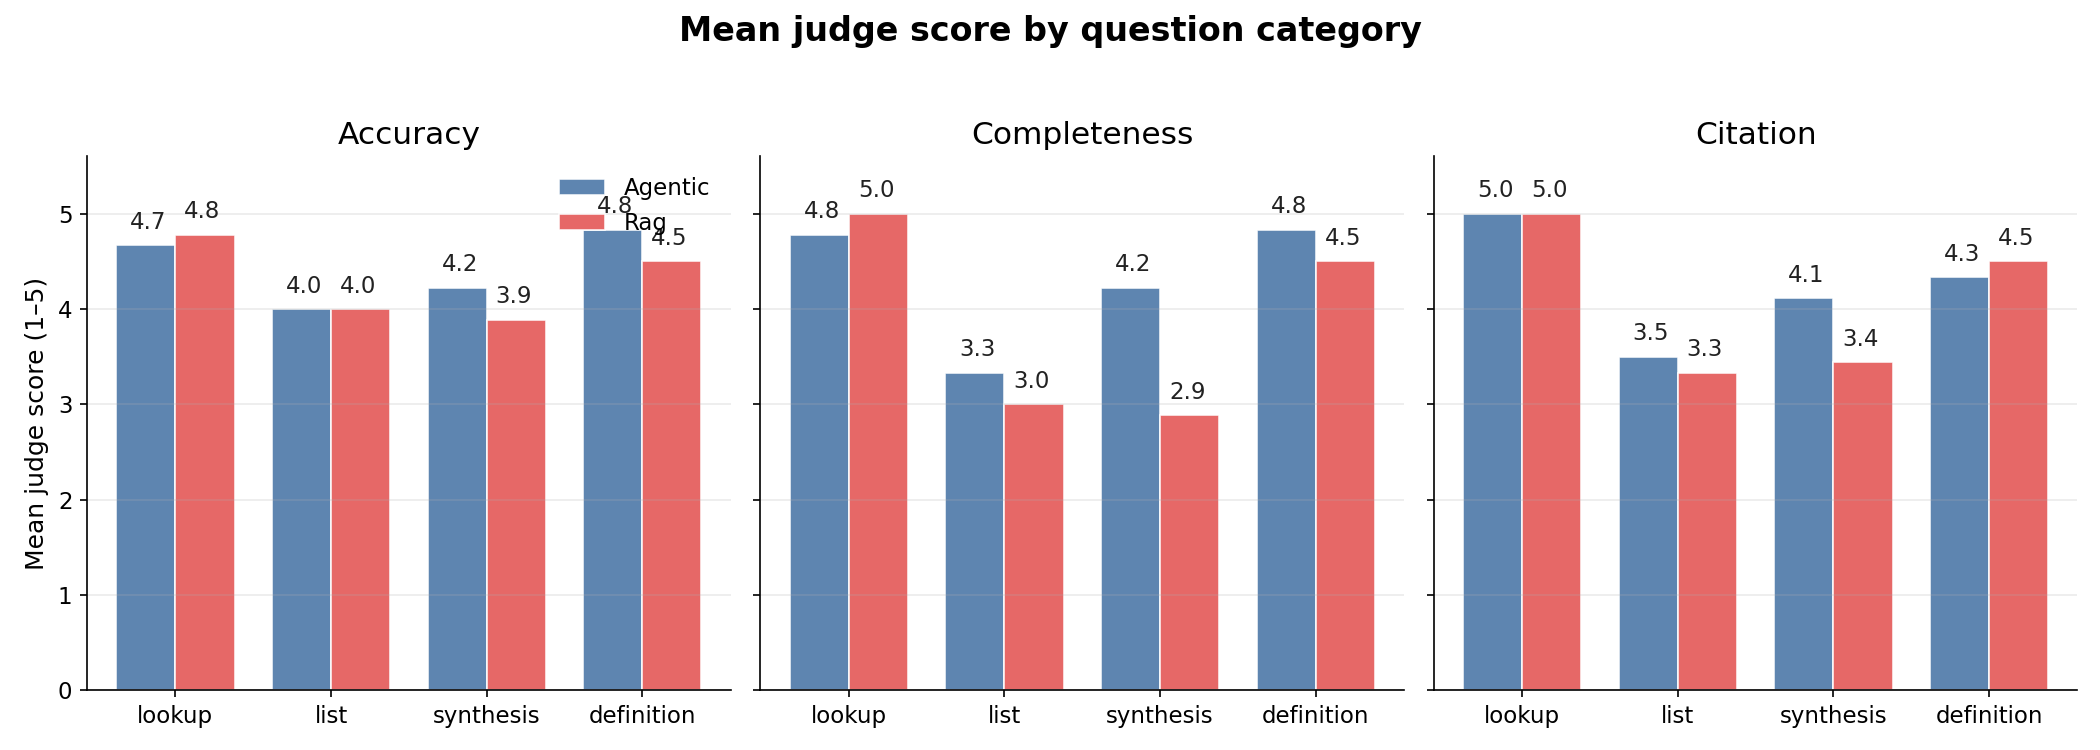
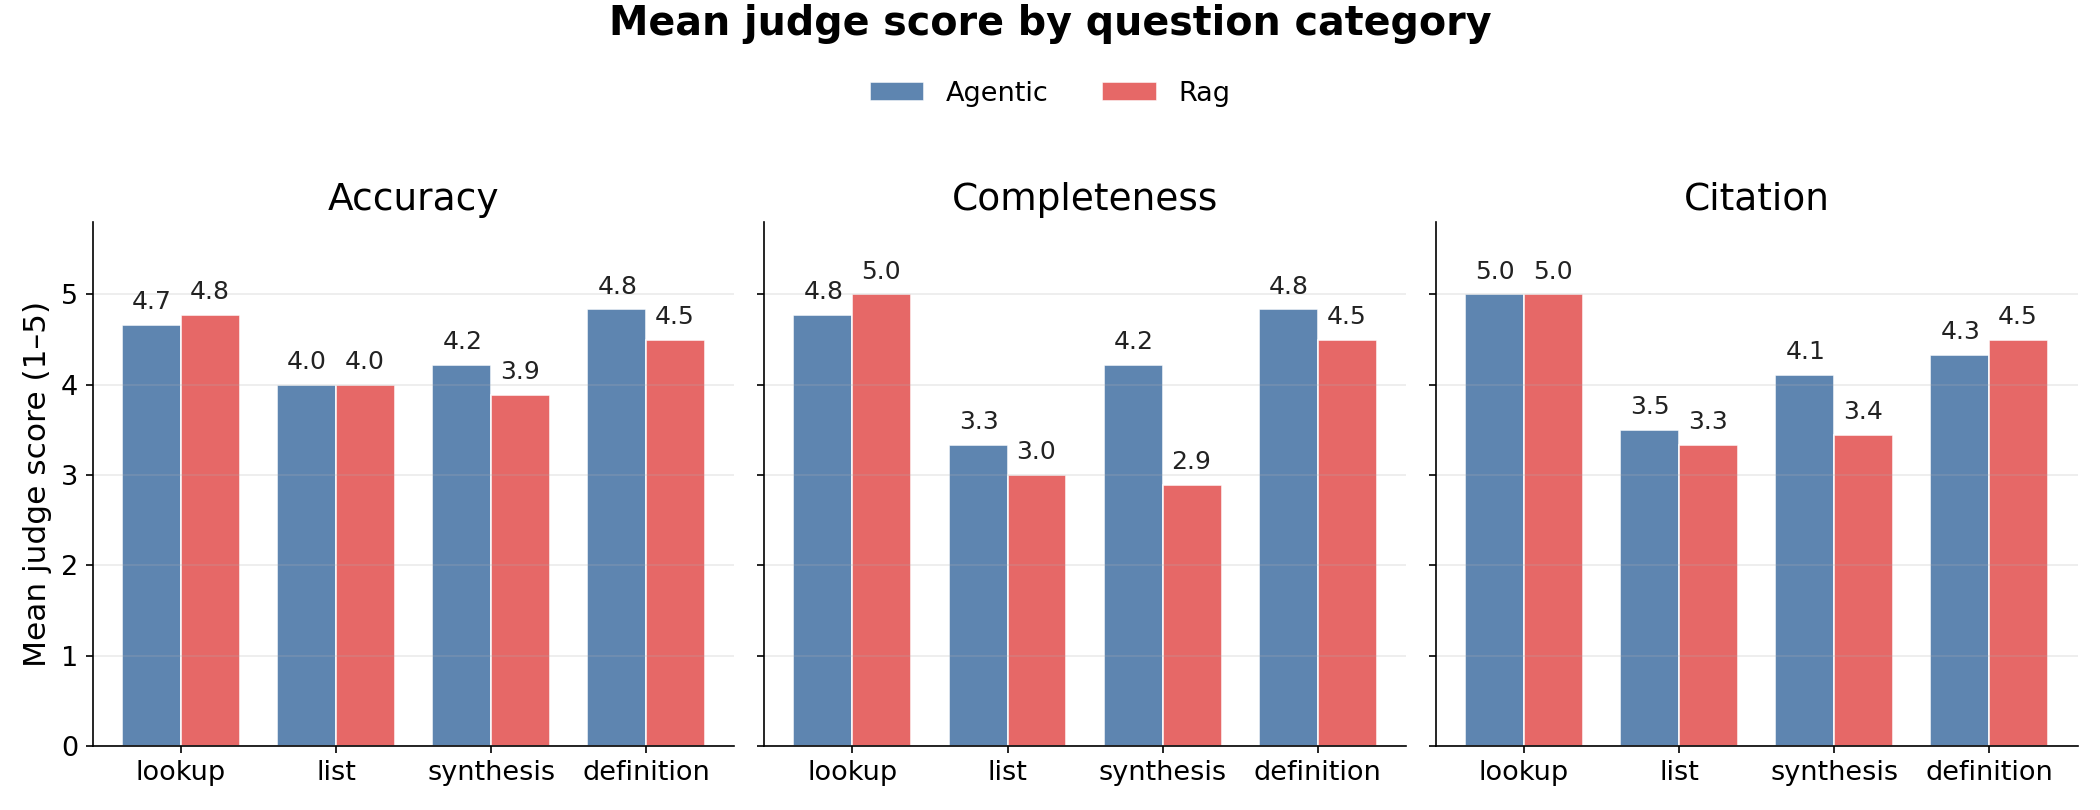
style(plots): larger fonts + move legends out of plot area
Bump the shared font hierarchy (title 18pt, labels 15pt, ticks 13pt,
legend/annotations 13pt) so the plots stay readable when the Quarto
page scales the PNGs down to ~60% of native width.

Move the Figure 1 (category bars) and Figure 3 (cost vs quality)
legends out of the axes entirely — they now sit as a figure-level
horizontal strip between the suptitle and the panels. Previously the
Figure 1 legend sat in the upper-right of the Accuracy panel and
overlapped the tallest bar's value label. Bump figure heights slightly
(5 → 5.4, 5.5 → 6) to make room for the top strip.

Also bump the scatter's figure size (10×8 → 11×8.5) and the pileup
badge's font by 1pt relative to regular labels so it stays the most
visually weighted annotation on the chart.

diff --git a/eval/build_plots.py b/eval/build_plots.py
@@ -44,14 +44,14 @@ _CATEGORY_COLORS = {
 }
 _MODE_COLORS = {"agentic": "#4C78A8", "rag": "#E45756"}
 
-# Shared styling knobs. Earlier versions of the plots used matplotlib
-# defaults (title ~10pt, ticks ~8pt) which rendered too small once the
-# page shrank the PNG to column width. Bump the hierarchy so the plots
-# read cleanly even at 1/2 page width.
-_TITLE_SIZE = 15
-_LABEL_SIZE = 12
-_TICK_SIZE = 11
-_LEGEND_SIZE = 11
+# Shared styling knobs. The plots are rendered at reduced width on the
+# Quarto page; the sizes below are chosen to stay readable even when
+# the PNG is scaled down to ~60% of its native width.
+_TITLE_SIZE = 18
+_LABEL_SIZE = 15
+_TICK_SIZE = 13
+_LEGEND_SIZE = 13
+_ANNOT_SIZE = 12
 
 
 def _apply_style(fig, *, title_size: int = _TITLE_SIZE,
@@ -135,7 +135,7 @@ def plot_per_question_scatter(records: list[dict], out: Path) -> None:
     for p in points:
         by_cell[(int(p["rg"]), int(p["ag"]))].append(p["qid"])
 
-    fig, ax = plt.subplots(figsize=(10, 8))
+    fig, ax = plt.subplots(figsize=(11, 8.5))
 
     jitter_seed = 0
     for p in points:
@@ -166,19 +166,20 @@ def plot_per_question_scatter(records: list[dict], out: Path) -> None:
         if len(qids) == 1:
             ax.annotate(qids[0], (rg, ag),
                         xytext=(dx, dy), textcoords="offset points",
-                        fontsize=9, color="#333", ha=ha, va=va)
+                        fontsize=_ANNOT_SIZE, color="#333", ha=ha, va=va)
         elif len(qids) <= 3:
             label = ", ".join(qids)
             ax.annotate(label, (rg, ag),
                         xytext=(dx, dy), textcoords="offset points",
-                        fontsize=9, color="#333", ha=ha, va=va,
+                        fontsize=_ANNOT_SIZE, color="#333", ha=ha, va=va,
                         bbox=dict(boxstyle="round,pad=0.2",
                                   fc="#fff", ec="#ddd", alpha=0.85))
         else:
             # Compact pileup badge — avoids smearing 10 IDs across the corner.
             ax.annotate(f"n={len(qids)}", (rg, ag),
                         xytext=(dx, dy), textcoords="offset points",
-                        fontsize=10, color="#222", ha=ha, va=va, weight="semibold",
+                        fontsize=_ANNOT_SIZE + 1, color="#222",
+                        ha=ha, va=va, weight="semibold",
                         bbox=dict(boxstyle="round,pad=0.25",
                                   fc="#f5f5f7", ec="#bbb", alpha=0.95))
 
@@ -345,10 +346,11 @@ def plot_category_bars(records: list[dict], out: Path) -> None:
         if r.get("mode") in modes and r.get("category") in categories:
             by_mode_cat[(r["mode"], r["category"])].append(r)
 
-    fig, axes = plt.subplots(1, 3, figsize=(14, 5), sharey=True)
+    fig, axes = plt.subplots(1, 3, figsize=(14, 5.4), sharey=True)
     width = 0.38
     x = list(range(len(categories)))
 
+    legend_handles: list = []
     for ax, (metric_key, metric_label) in zip(axes, metrics):
         for j, mode in enumerate(modes):
             vals = []
@@ -361,6 +363,9 @@ def plot_category_bars(records: list[dict], out: Path) -> None:
             bars = ax.bar([xi + offset for xi in x], vals, width,
                           label=mode.title(), color=_MODE_COLORS[mode],
                           alpha=0.9, edgecolor="white", linewidth=0.8)
+            if not legend_handles and ax is axes[0]:
+                # Capture handle on first axis; reuse as figure-level legend.
+                pass
             for bar, v in zip(bars, vals):
                 if v > 0:
                     # Lean the label left (agentic) or right (rag) so two
@@ -370,19 +375,30 @@ def plot_category_bars(records: list[dict], out: Path) -> None:
                                              else bar.get_width() * 0.15)
                     ax.text(label_x, v + 0.12, f"{v:.1f}",
                             ha=ha_by_mode[mode], va="bottom",
-                            fontsize=_TICK_SIZE, color="#222")
+                            fontsize=_ANNOT_SIZE, color="#222")
 
         ax.set_xticks(x)
         ax.set_xticklabels(categories, rotation=0)
         ax.set_title(metric_label)
-        ax.set_ylim(0, 5.6)
+        ax.set_ylim(0, 5.8)
         ax.grid(True, alpha=0.25, axis="y")
 
     axes[0].set_ylabel("Mean judge score (1–5)")
-    axes[0].legend(loc="upper right", frameon=False, fontsize=_LEGEND_SIZE)
-    fig.suptitle("Mean judge score by question category", y=0.98)
+    # Legend as a figure-level strip, above the panels — never overlaps
+    # the bars regardless of how tall the tallest bar is.
+    handles, labels = axes[0].get_legend_handles_labels()
+    fig.legend(
+        handles, labels,
+        loc="upper center",
+        bbox_to_anchor=(0.5, 0.93),
+        ncol=len(labels),
+        frameon=False,
+        fontsize=_LEGEND_SIZE,
+    )
+    fig.suptitle("Mean judge score by question category", y=0.995)
     _apply_style(fig)
-    fig.tight_layout(rect=[0, 0, 1, 0.94])
+    # Reserve the top ~14% of the figure for suptitle + legend.
+    fig.tight_layout(rect=[0, 0, 1, 0.88])
     fig.savefig(out, dpi=150)
     plt.close(fig)
 
@@ -391,7 +407,7 @@ def plot_cost_quality(records: list[dict], out: Path) -> None:
     """Total judge score as a function of input tokens (left) and wall
     time (right). Both modes overlaid so the frontier is visible.
     """
-    fig, axes = plt.subplots(1, 2, figsize=(14, 5.5), sharey=True)
+    fig, axes = plt.subplots(1, 2, figsize=(15, 6), sharey=True)
 
     panels = [
         ("input_tokens", "Input tokens per query (log scale)", True,
@@ -413,7 +429,7 @@ def plot_cost_quality(records: list[dict], out: Path) -> None:
                 xs.append(xv)
                 ys.append(total)
             if xs:
-                ax.scatter(xs, ys, c=color, alpha=0.7, s=70,
+                ax.scatter(xs, ys, c=color, alpha=0.7, s=80,
                            edgecolors="white", linewidths=0.8,
                            label=mode.title())
         ax.set_xlabel(xlabel)
@@ -421,13 +437,21 @@ def plot_cost_quality(records: list[dict], out: Path) -> None:
         if xlog:
             ax.set_xscale("log")
         ax.grid(True, alpha=0.25)
-        ax.legend(loc="lower right", frameon=True, framealpha=0.9,
-                  fontsize=_LEGEND_SIZE)
 
     axes[0].set_ylabel("Total judge score (3–15)")
-    fig.suptitle("Cost vs quality: what does each mode buy you?", y=0.99)
+    # Figure-level legend above the panels, same pattern as category_bars.
+    handles, labels = axes[0].get_legend_handles_labels()
+    fig.legend(
+        handles, labels,
+        loc="upper center",
+        bbox_to_anchor=(0.5, 0.93),
+        ncol=len(labels),
+        frameon=False,
+        fontsize=_LEGEND_SIZE,
+    )
+    fig.suptitle("Cost vs quality: what does each mode buy you?", y=0.995)
     _apply_style(fig)
-    fig.tight_layout(rect=[0, 0, 1, 0.94])
+    fig.tight_layout(rect=[0, 0, 1, 0.88])
     fig.savefig(out, dpi=150)
     plt.close(fig)
 
